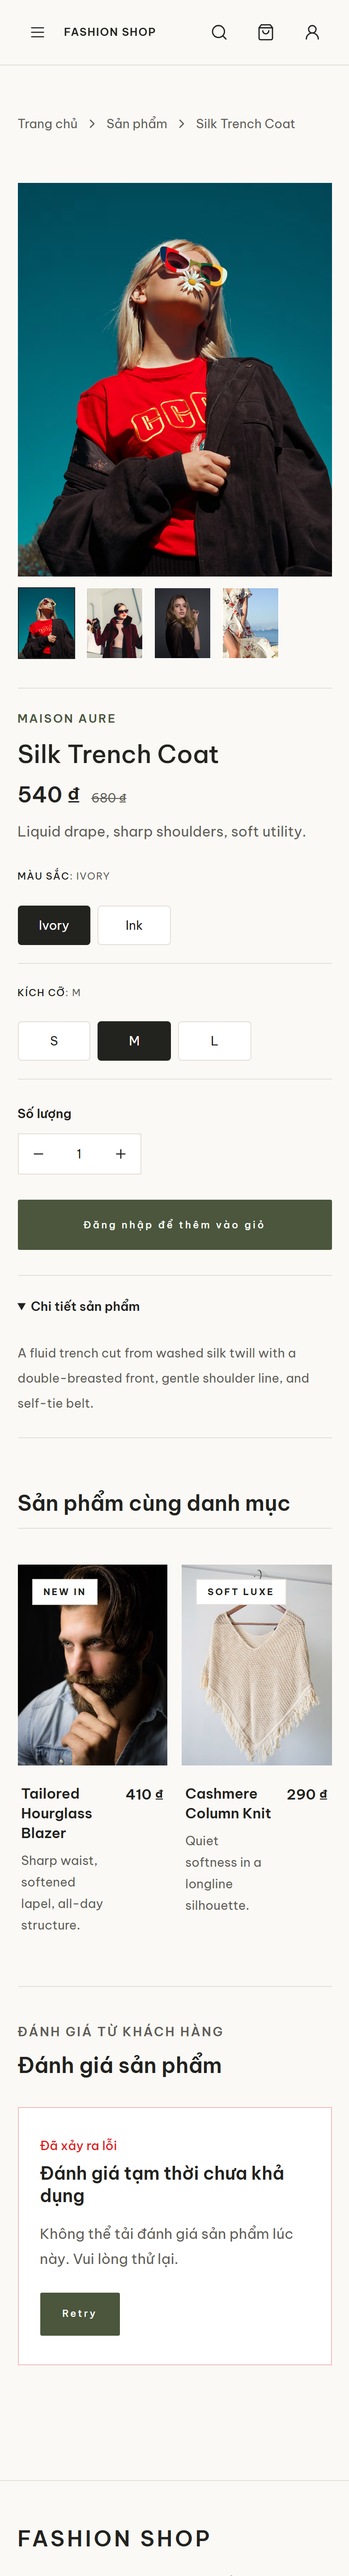
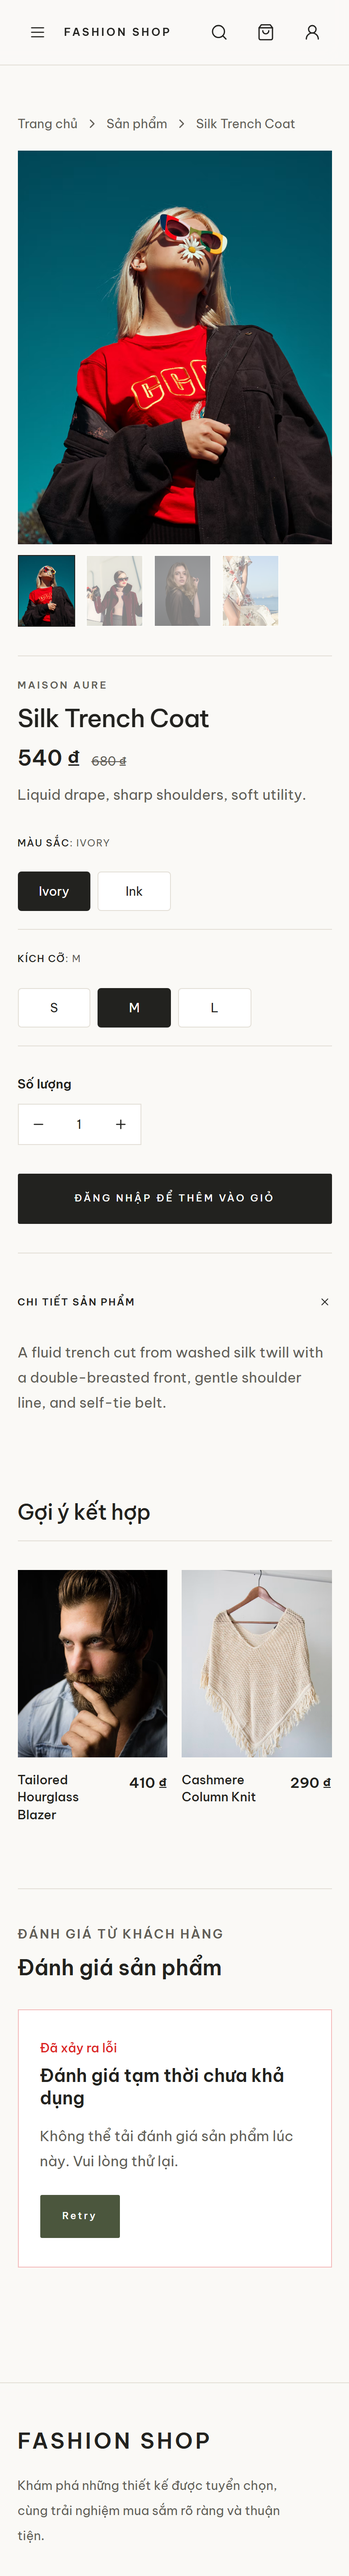
fix(products): match PDP design 03 layout and motion

diff --git a/src/shared/components/catalog/PurchaseBlock.tsx b/src/shared/components/catalog/PurchaseBlock.tsx
@@ -2,6 +2,7 @@ import { PriceDisplay } from '@/shared/components/catalog/PriceDisplay';
 import { QuantitySelector } from '@/shared/components/catalog/QuantitySelector';
 import { VariantSelector } from '@/shared/components/catalog/VariantSelector';
 import { Button } from '@/shared/components/ui/Button';
+import { Plus } from 'lucide-react';
 import type { VariantAttributeGroup, VariantSelectionResult } from '@/features/products/utils/variantSelection';
 import type { ProductDetail } from '@/shared/types/catalog.types';
 import type { RefObject } from 'react';
@@ -41,11 +42,11 @@ export const PurchaseBlock = ({
   selectedValues,
   selection,
 }: PurchaseBlockProps) => (
-  <aside className="lg:sticky lg:top-28">
-    <div className="space-y-7 border-t border-border pt-6 lg:border-0 lg:pt-0">
+  <aside className="lg:sticky lg:top-32">
+    <div className="space-y-8 border-t border-border pt-6 lg:border-0 lg:pt-0">
       <header className="space-y-3">
-        <p className="text-[13px] font-semibold uppercase tracking-[0.12em] text-brand-primary">{product.brandName}</p>
-        <h1 className="break-words text-[28px] font-medium leading-9 text-text-primary md:text-[40px] md:leading-[50px]">{product.name}</h1>
+        <p className="text-[11px] font-semibold uppercase tracking-[0.18em] text-text-secondary">{product.brandName}</p>
+        <h1 className="break-words text-[28px] font-medium leading-[1.2] tracking-tight text-text-primary md:text-[40px]">{product.name}</h1>
         {currentPrice !== undefined ? (
           <div className="flex flex-wrap items-baseline gap-x-3 gap-y-1">
             {selection.status !== 'active' && selection.status !== 'inactive' ? <span className="text-sm text-text-secondary">Giá từ</span> : null}
@@ -71,17 +72,25 @@ export const PurchaseBlock = ({
       {addError ? <p aria-live="assertive" className="border border-danger/30 bg-danger/5 p-3 text-sm leading-6 text-danger" role="alert">{addError}</p> : null}
 
       <div ref={purchaseActionRef}>
-        <Button disabled={addToCartDisabled} fullWidth loading={addToCartLoading} onClick={onAddToCart} size="lg">
+        <Button
+          className="!border-text-primary !bg-text-primary uppercase tracking-[0.18em] !text-surface transition-[transform,background-color,border-color] duration-500 hover:!border-text-secondary hover:!bg-text-secondary hover:scale-[1.02] motion-reduce:transform-none"
+          disabled={addToCartDisabled}
+          fullWidth
+          loading={addToCartLoading}
+          onClick={onAddToCart}
+          size="lg"
+        >
           {addToCartLabel}
         </Button>
       </div>
 
       {product.description ? (
-        <details className="border-y border-border py-4" open>
-          <summary className="min-h-11 cursor-pointer py-2 text-sm font-semibold text-text-primary focus-visible:outline-2 focus-visible:outline-offset-2 focus-visible:outline-brand-primary">
-            Chi tiết sản phẩm
+        <details className="group border-t border-border pt-8" open>
+          <summary className="flex min-h-11 cursor-pointer list-none items-center justify-between gap-4 py-2 text-[11px] font-semibold uppercase tracking-[0.12em] text-text-primary focus-visible:outline-2 focus-visible:outline-offset-2 focus-visible:outline-brand-primary [&::-webkit-details-marker]:hidden">
+            <span>Chi tiết sản phẩm</span>
+            <Plus aria-hidden="true" className="h-4 w-4 shrink-0 transition-transform duration-300 group-open:rotate-45 motion-reduce:transition-none" strokeWidth={1.5} />
           </summary>
-          <p className="max-w-prose pb-2 pt-3 text-sm leading-7 text-text-secondary">{product.description}</p>
+          <p className="max-w-prose pb-5 pt-5 text-base leading-7 text-text-secondary">{product.description}</p>
         </details>
       ) : null}
     </div>

diff --git a/src/shared/components/catalog/RelatedProducts.tsx b/src/shared/components/catalog/RelatedProducts.tsx
@@ -1,16 +1,56 @@
-import { ProductGrid } from '@/shared/components/catalog/ProductGrid';
+import { motion, useReducedMotion } from 'framer-motion';
+import { Link } from 'react-router-dom';
+
+import { routePaths } from '@/constants/routes';
+import { PriceDisplay } from '@/shared/components/catalog/PriceDisplay';
+import { motionPresets } from '@/shared/lib/motionPresets';
 import type { ProductSummary } from '@/shared/types/catalog.types';
 
 type RelatedProductsProps = {
   products: ProductSummary[];
 };
 
-export const RelatedProducts = ({ products }: RelatedProductsProps) => (
-  <section className="space-y-10">
-    <header>
-      <h2 className="text-2xl font-semibold text-text-primary">Sản phẩm cùng danh mục</h2>
-      <div className="mt-3 h-px w-full bg-border" />
-    </header>
-    <ProductGrid products={products} />
-  </section>
-);
+export const RelatedProducts = ({ products }: RelatedProductsProps) => {
+  const reducedMotion = Boolean(useReducedMotion());
+
+  return (
+    <section aria-labelledby="related-products-title" className="space-y-8 py-4 md:space-y-10">
+      <header>
+        <h2 className="text-2xl font-medium tracking-tight text-text-primary md:text-3xl" id="related-products-title">Gợi ý kết hợp</h2>
+        <div className="mt-4 h-px w-full bg-border" />
+      </header>
+      <motion.div
+        className="grid grid-cols-2 gap-x-4 gap-y-10 md:grid-cols-3 md:gap-x-8 md:gap-y-14 lg:grid-cols-4"
+        {...motionPresets.staggerContainer(reducedMotion, 0.08)}
+      >
+        {products.map((product, index) => (
+          <motion.article
+            className={`group min-w-0 ${index % 2 === 1 ? 'lg:mt-10' : ''}`}
+            key={product.id}
+            {...motionPresets.staggerItem(reducedMotion)}
+          >
+            <Link className="block focus-visible:outline-offset-4" to={routePaths.productDetail(product.slug)}>
+              <div className="relative aspect-[4/5] overflow-hidden bg-surface-soft">
+                <img
+                  alt={product.primaryImage.alt}
+                  className="h-full w-full object-cover transition-transform duration-1000 ease-out group-hover:scale-105 motion-reduce:transition-none"
+                  height={product.primaryImage.height}
+                  loading="lazy"
+                  src={product.primaryImage.src}
+                  width={product.primaryImage.width}
+                />
+                <span className="product-quick-add absolute inset-x-0 bottom-0 translate-y-full px-4 py-4 text-center text-[10px] font-semibold uppercase tracking-[0.18em] text-text-primary opacity-0 transition-[transform,opacity] duration-500 group-hover:translate-y-0 group-hover:opacity-100 group-focus-within:translate-y-0 group-focus-within:opacity-100 motion-reduce:transition-none">
+                  Xem sản phẩm
+                </span>
+              </div>
+              <div className="flex items-start justify-between gap-3 pt-4 md:pt-5">
+                <h3 className="min-w-0 text-sm font-medium leading-snug text-text-primary transition-colors group-hover:text-text-secondary md:text-base">{product.name}</h3>
+                <PriceDisplay align="right" compareAtPrice={product.compareAtPrice} price={product.price} />
+              </div>
+            </Link>
+          </motion.article>
+        ))}
+      </motion.div>
+    </section>
+  );
+};

diff --git a/src/shared/components/catalog/ProductMediaGallery.tsx b/src/shared/components/catalog/ProductMediaGallery.tsx
@@ -1,4 +1,5 @@
 import { useEffect, useState } from 'react';
+import { motion, useReducedMotion } from 'framer-motion';
 
 import type { ProductImage } from '@/shared/types/catalog.types';
 import { cn } from '@/shared/utils/cn';
@@ -10,6 +11,7 @@ type ProductMediaGalleryProps = {
 };
 
 export const ProductMediaGallery = ({ media, productName, selectedVariantId }: ProductMediaGalleryProps) => {
+  const reducedMotion = useReducedMotion();
   const imageMedia = media.filter((image) => !image.mediaType || image.mediaType.toUpperCase() === 'IMAGE');
   const variantMedia = selectedVariantId ? imageMedia.filter((image) => image.variantId === selectedVariantId) : [];
   const sharedMedia = imageMedia.filter((image) => !image.variantId);
@@ -33,8 +35,8 @@ export const ProductMediaGallery = ({ media, productName, selectedVariantId }: P
             aria-label={`Hiển thị ảnh ${index + 1} của ${productName}`}
             aria-pressed={selectedImage?.id === image.id}
             className={cn(
-              'h-20 w-16 shrink-0 overflow-hidden border bg-surface transition-colors motion-reduce:transition-none md:h-auto md:w-full',
-              selectedImage.id === image.id ? 'border-text-primary' : 'border-transparent hover:border-border',
+              'group/thumb aspect-[4/5] h-20 w-16 shrink-0 overflow-hidden border bg-surface transition-[border-color,opacity] duration-500 motion-reduce:transition-none md:h-auto md:w-full',
+              selectedImage.id === image.id ? 'border-text-primary opacity-100' : 'border-transparent opacity-50 hover:opacity-100',
             )}
             key={image.id}
             onClick={() => setSelectedId(image.id)}
@@ -42,7 +44,7 @@ export const ProductMediaGallery = ({ media, productName, selectedVariantId }: P
           >
             <img
               alt={image.alt}
-              className="aspect-[4/5] h-full w-full object-cover"
+              className="aspect-[4/5] h-full w-full object-cover transition-transform duration-1000 ease-out group-hover/thumb:scale-105 motion-reduce:transition-none"
               height={image.height}
               loading="lazy"
               src={image.src}
@@ -52,13 +54,17 @@ export const ProductMediaGallery = ({ media, productName, selectedVariantId }: P
         ))}
       </div>
       <div className="order-1 flex-1 md:order-2">
-        <div className="relative overflow-hidden bg-surface-soft">
-          <img
+        <div className="group relative overflow-hidden bg-surface-soft">
+          <motion.img
             alt={selectedImage.alt}
-            className="aspect-[4/5] h-full w-full object-cover"
+            animate={{ opacity: 1 }}
+            className="aspect-[4/5] h-full w-full object-cover transition-transform duration-1000 ease-out group-hover:scale-105 motion-reduce:transition-none"
             height={selectedImage.height}
+            initial={reducedMotion ? false : { opacity: 0.65 }}
+            key={selectedImage.id}
             loading="eager"
             src={selectedImage.src}
+            transition={reducedMotion ? { duration: 0 } : { duration: 0.45, ease: [0.22, 1, 0.36, 1] }}
             width={selectedImage.width}
           />
         </div>

diff --git a/src/features/products/components/ProductStorySection.tsx b/src/features/products/components/ProductStorySection.tsx
@@ -1,0 +1,62 @@
+import { motion, useReducedMotion } from 'framer-motion';
+
+import type { ProductImage } from '@/shared/types/catalog.types';
+import { motionPresets } from '@/shared/lib/motionPresets';
+
+type ProductStorySectionProps = {
+  story: string;
+  description: string;
+  images: ProductImage[];
+};
+
+export const ProductStorySection = ({ description, images, story }: ProductStorySectionProps) => {
+  const reducedMotion = Boolean(useReducedMotion());
+  const mainImage = images[images.length - 1];
+  const detailImage = images.length > 1 ? images[images.length - 2] : undefined;
+
+  return (
+    <motion.section
+      aria-labelledby="product-story-title"
+      className="hidden bg-surface-muted py-16 md:block md:py-24"
+      {...motionPresets.fadeUp(reducedMotion)}
+    >
+      <div className="mx-auto grid max-w-layout items-center gap-12 px-page md:grid-cols-2 md:gap-16 lg:gap-20">
+        <div className="space-y-8 md:space-y-10">
+          <h2 className="max-w-[16ch] text-2xl font-medium leading-tight tracking-tight text-text-primary md:text-3xl lg:text-4xl" id="product-story-title">
+            Câu chuyện sản phẩm
+          </h2>
+          <div className="max-w-prose space-y-6 text-base leading-7 text-text-secondary md:text-lg md:leading-8">
+            <p className="italic">{story}</p>
+            {description !== story ? <p>{description}</p> : null}
+          </div>
+        </div>
+        {mainImage ? (
+          <div className="relative md:py-3 md:pl-3">
+            <div className="group aspect-square overflow-hidden rounded-feature bg-surface-soft shadow-card">
+              <img
+                alt={mainImage.alt}
+                className="h-full w-full object-cover transition-transform duration-1000 ease-out group-hover:scale-105 motion-reduce:transition-none"
+                height={mainImage.height}
+                loading="lazy"
+                src={mainImage.src}
+                width={mainImage.width}
+              />
+            </div>
+            {detailImage ? (
+              <div className="absolute -bottom-7 left-0 hidden h-48 w-36 border-4 border-surface bg-surface-soft p-1 shadow-card md:block lg:-left-8 lg:h-56 lg:w-40">
+                <img
+                  alt={detailImage.alt}
+                  className="h-full w-full object-cover"
+                  height={detailImage.height}
+                  loading="lazy"
+                  src={detailImage.src}
+                  width={detailImage.width}
+                />
+              </div>
+            ) : null}
+          </div>
+        ) : null}
+      </div>
+    </motion.section>
+  );
+};

diff --git a/src/shared/components/layout/Header.tsx b/src/shared/components/layout/Header.tsx
@@ -49,6 +49,7 @@ export const Header = () => {
   const unreadNotificationCount = unreadNotificationCountQuery.data ?? 0;
   const cartItemCount = cartItemCountQuery.data ?? 0;
   const productSurface = pathname.startsWith(routes.products);
+  const productDetailSurface = pathname.startsWith(`${routes.products}/`);
   const cartTarget = user ? routes.cart : routePaths.loginRedirect(routes.cart);
   const navLinks = collectionLinks;
   const logo = 'FASHION SHOP';
@@ -105,7 +106,7 @@ export const Header = () => {
   };
 
   return (
-    <header className="glass-header fixed inset-x-0 top-0 z-50 border-b border-border print:hidden">
+    <header className={cn('glass-header fixed inset-x-0 top-0 z-50 border-b border-border print:hidden', productDetailSurface && 'product-detail-glass-header')}>
       <div className="mx-auto flex min-h-[72px] max-w-layout items-center justify-between gap-2 px-page md:min-h-20 md:gap-4">
         <div className="flex min-w-0 items-center gap-2 md:gap-8">
           <button
@@ -121,6 +122,7 @@ export const Header = () => {
             className={cn(
               'whitespace-nowrap text-xs font-semibold tracking-[0.08em] text-text-primary transition-opacity hover:opacity-70 sm:text-sm md:text-lg',
               productSurface && 'md:text-lg',
+              productDetailSurface && 'font-medium tracking-[0.2em] md:text-xl',
             )}
             to={routes.home}
           >
@@ -129,7 +131,11 @@ export const Header = () => {
         </div>
         <nav aria-label="Danh mục sản phẩm" className="hidden items-center gap-5 lg:flex">
           {navLinks.map((link) => (
-            <NavLink className={navLinkClass} key={link.label} to={link.to}>
+            <NavLink
+              className={({ isActive }) => cn(navLinkClass({ isActive }), productDetailSurface && 'text-[11px] font-medium uppercase tracking-[0.16em]')}
+              key={link.label}
+              to={link.to}
+            >
               {link.label}
             </NavLink>
           ))}

diff --git a/src/features/products/pages/ProductDetailPage.tsx b/src/features/products/pages/ProductDetailPage.tsx
@@ -10,6 +10,7 @@ import { PurchaseBlock } from '@/shared/components/catalog/PurchaseBlock';
 import { RelatedProducts } from '@/shared/components/catalog/RelatedProducts';
 import { ReviewSection } from '@/shared/components/catalog/ReviewSection';
 import { StickyCartBar } from '@/shared/components/catalog/StickyCartBar';
+import { ProductStorySection } from '@/features/products/components/ProductStorySection';
 import { Button } from '@/shared/components/ui/Button';
 import { EmptyState } from '@/shared/components/feedback/EmptyState';
 import { ErrorCard } from '@/shared/components/feedback/ErrorCard';
@@ -236,8 +237,8 @@ export const ProductDetailPage = () => {
           },
         ]}
       />
-      <PageWrapper className="pb-32 lg:pb-0">
-        <Container className="space-y-14 md:space-y-20">
+      <PageWrapper className="pt-24 pb-32 lg:pb-0">
+        <Container className="space-y-5 md:space-y-6">
           <BreadcrumbNav items={[{ label: 'Trang chủ', href: routes.home }, { label: 'Sản phẩm', href: routes.products }, { label: product.name }]} />
 
           <div className="grid gap-8 lg:grid-cols-12 lg:gap-12">
@@ -265,6 +266,9 @@ export const ProductDetailPage = () => {
             </div>
           </div>
 
+        </Container>
+        {product.story && product.story !== product.description ? <ProductStorySection description={product.description} images={product.media} story={product.story} /> : null}
+        <Container className="space-y-14 md:space-y-20 pt-14 md:pt-20">
           {relatedQuery.data && relatedQuery.data.length > 0 ? <RelatedProducts products={relatedQuery.data} /> : null}
           <ReviewSection productId={product.id} />
         </Container>

diff --git a/src/index.css b/src/index.css
@@ -89,6 +89,11 @@
     background-color: rgb(var(--color-canvas) / 0.96);
   }
 
+  .product-detail-glass-header {
+    background-color: rgb(var(--color-canvas) / 0.82);
+    backdrop-filter: blur(12px);
+  }
+
   .auth-shell-bg {
     background-color: rgb(var(--color-canvas));
   }

diff --git a/artifacts/issue-33/design-comparison.md b/artifacts/issue-33/design-comparison.md
@@ -28,10 +28,11 @@ The desktop design capture is the Stitch 03 HTML at the same 1280 × 2781 CSS vi
 
 - The approved frame uses Aura branding, serif typography, EUR and editorial product copy. The application keeps Fashion Shop branding, Be Vietnam Pro, VND and API-backed catalog fields per repository design/API contracts.
 - Stitch presents one size group and adds `Size Guide` and `Find in Store` actions. The customer API can return multiple catalog-backed attribute groups, and there is no size-guide route or store availability endpoint, so these controls are not fabricated.
-- Stitch provides color swatch colors and an editorial/lookbook section. The API exposes variant attribute/value identifiers and labels, product description/media, but no verified swatch colors, editorial content or lookbook relation. The UI renders labeled choices and API description only.
-- Stitch has no breadcrumb, reviews, or related-products section in frame 03. The app retains the existing route breadcrumb and API-backed related/review areas; review failure in these captures is the actual local mock authorization error, not a live API test.
+- Stitch provides color swatch colors and editorial copy/media. The API exposes variant attribute/value identifiers and labels, product short/long descriptions and product media, but no verified swatch colors or editorial content relation. The page now uses the API-backed short description, long description and product media in the same editorial two-column composition; the title and copy therefore remain product data rather than Stitch's sample story.
+- Stitch has no breadcrumb, quantity, reviews, or related-products section in frame 03. The app retains the required semantic breadcrumb, existing quantity control, and API-backed related/review areas. Related products use the reference's staggered 4-column desktop / 2-column mobile image-led layout and hover reveal, but links navigate to the existing PDP route instead of adding to cart. Review failure in these captures is the actual local mock authorization error, not a live API test.
 - Product labels, image, price and variant fixtures differ from Stitch. We did not modify mock or backend catalog data to mimic the design sample.
+- The approved frame uses Aura's serif display face; the reviewed app brief requires Be Vietnam Pro throughout. The implementation keeps Be Vietnam Pro and matches the source hierarchy through size, weight, tracking and spacing.
 
 ## Visual review
 
-The revised purchase panel follows the approved frame's order: brand/product title and price, grouped variant choices, quantity, primary action and expandable product detail. Desktop gallery uses the wide editorial image column and 4:5 media ratio; mobile stacks the gallery before product details and keeps choices in a four-column grid. Remaining differences above are driven by the existing brand, API and route contracts.
+The PDP follows Stitch 03's desktop sequence: compact breadcrumb then image-led gallery and sticky purchase panel, expandable product details, full-width editorial story block, then image-led related products. Gallery hover zoom, inactive-thumbnail dimming, main-image fade, CTA hover scale, desktop story reveal and staggered related-card reveal are implemented with reduced-motion handling. Desktop keeps vertical thumbnails beside the 4:5 hero. Mobile follows the local responsive prototype: the gallery stacks before product data, the short description stays under price, choices use a four-column grid, and the desktop-only story block is omitted. Remaining differences above follow the existing brand, user-approved typeface, API and route contracts.
